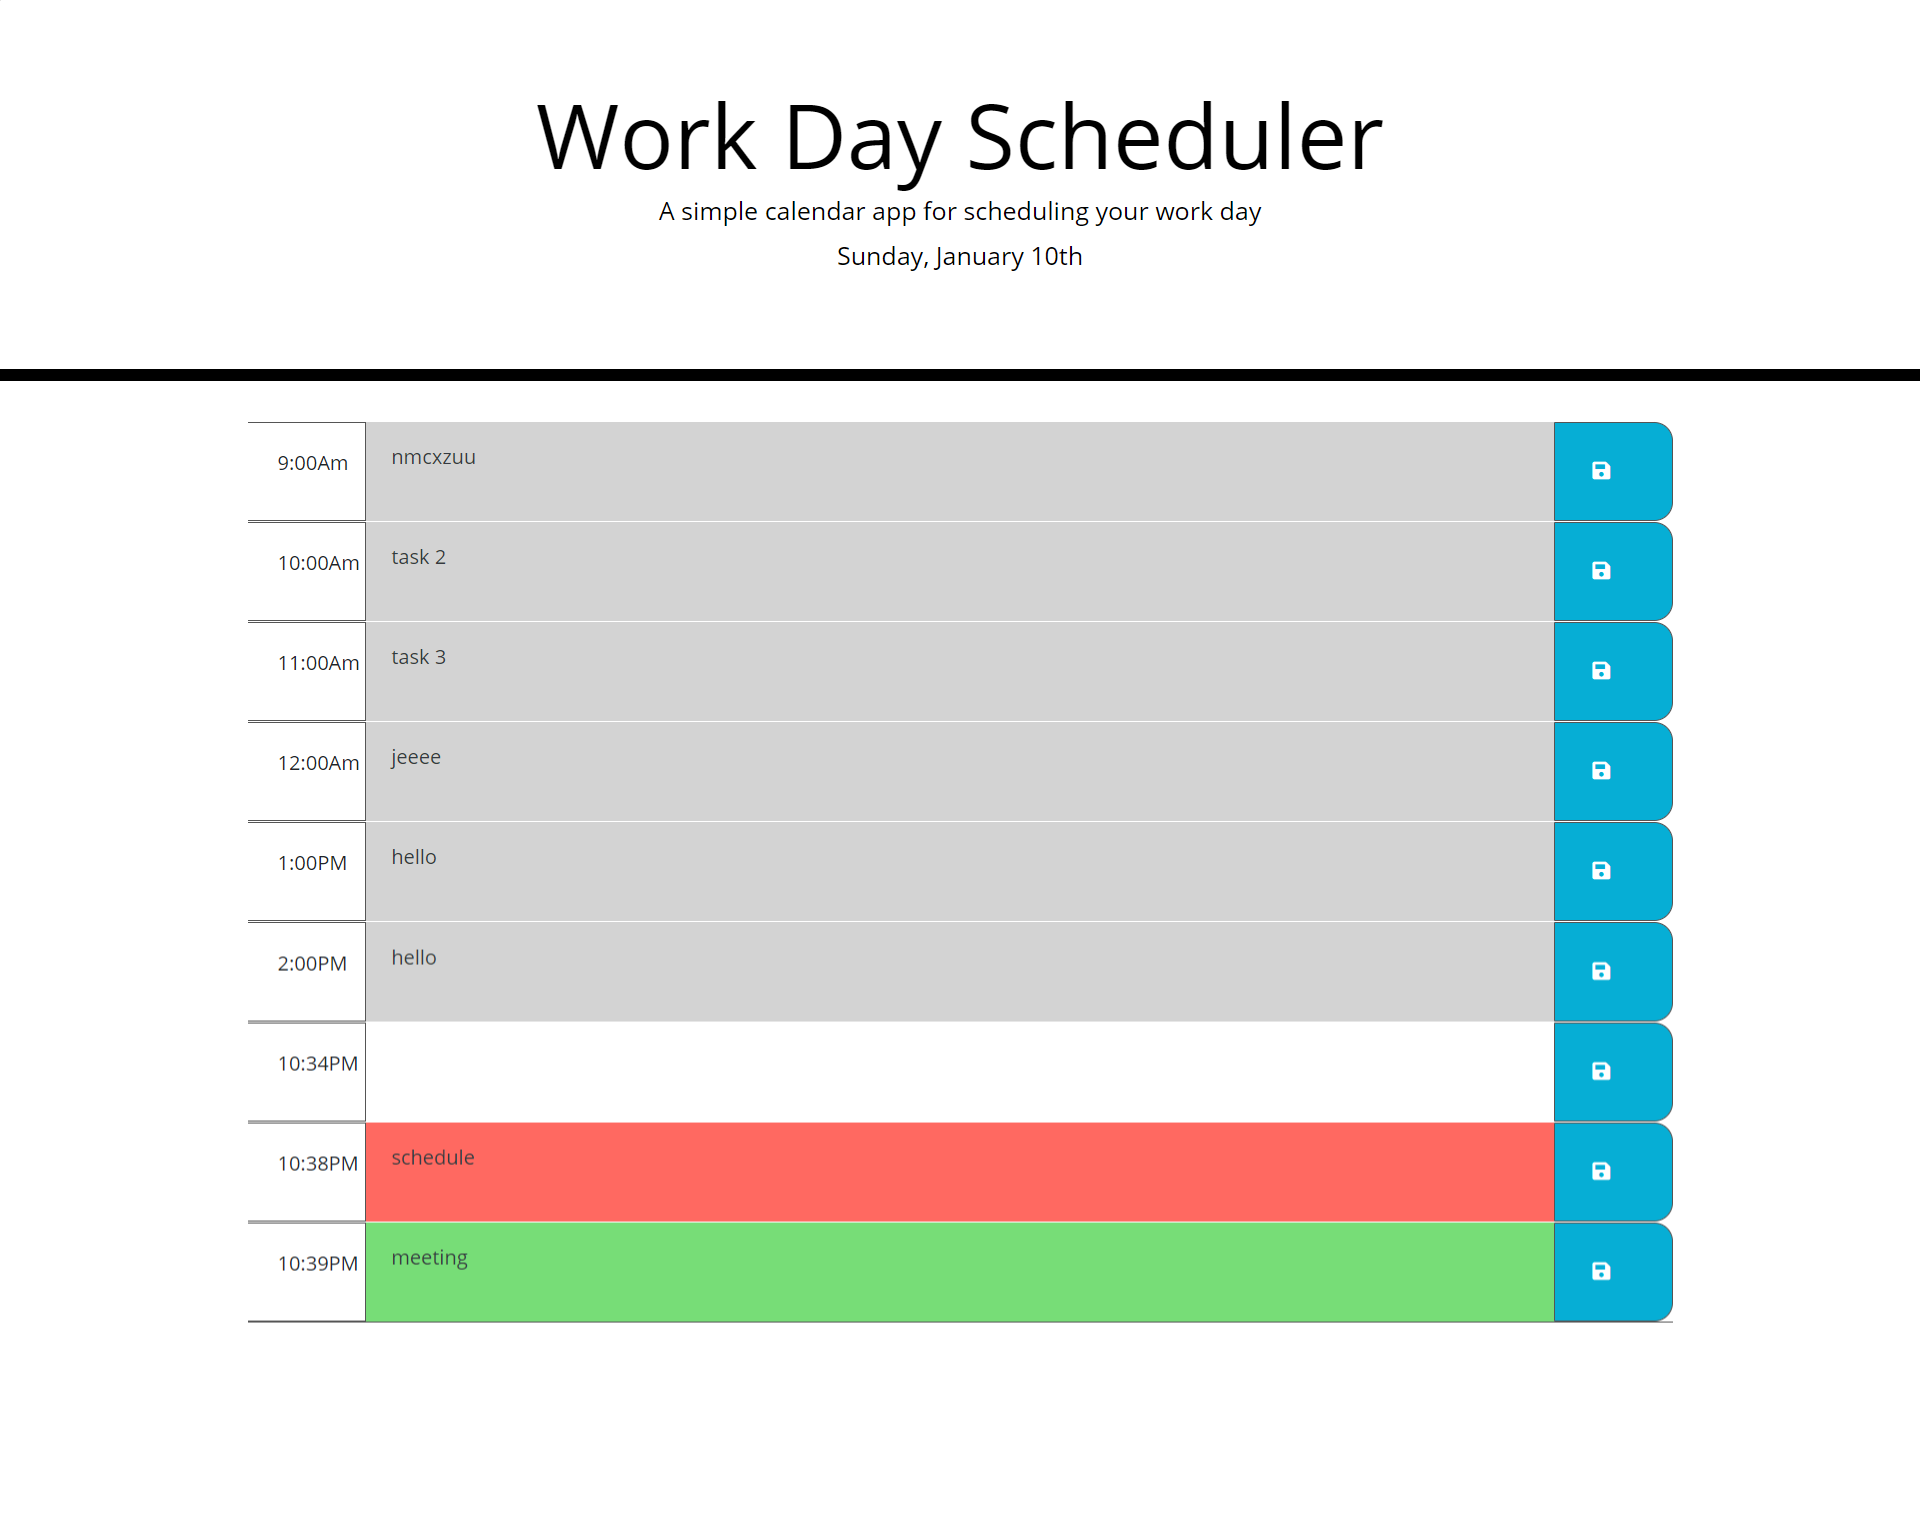
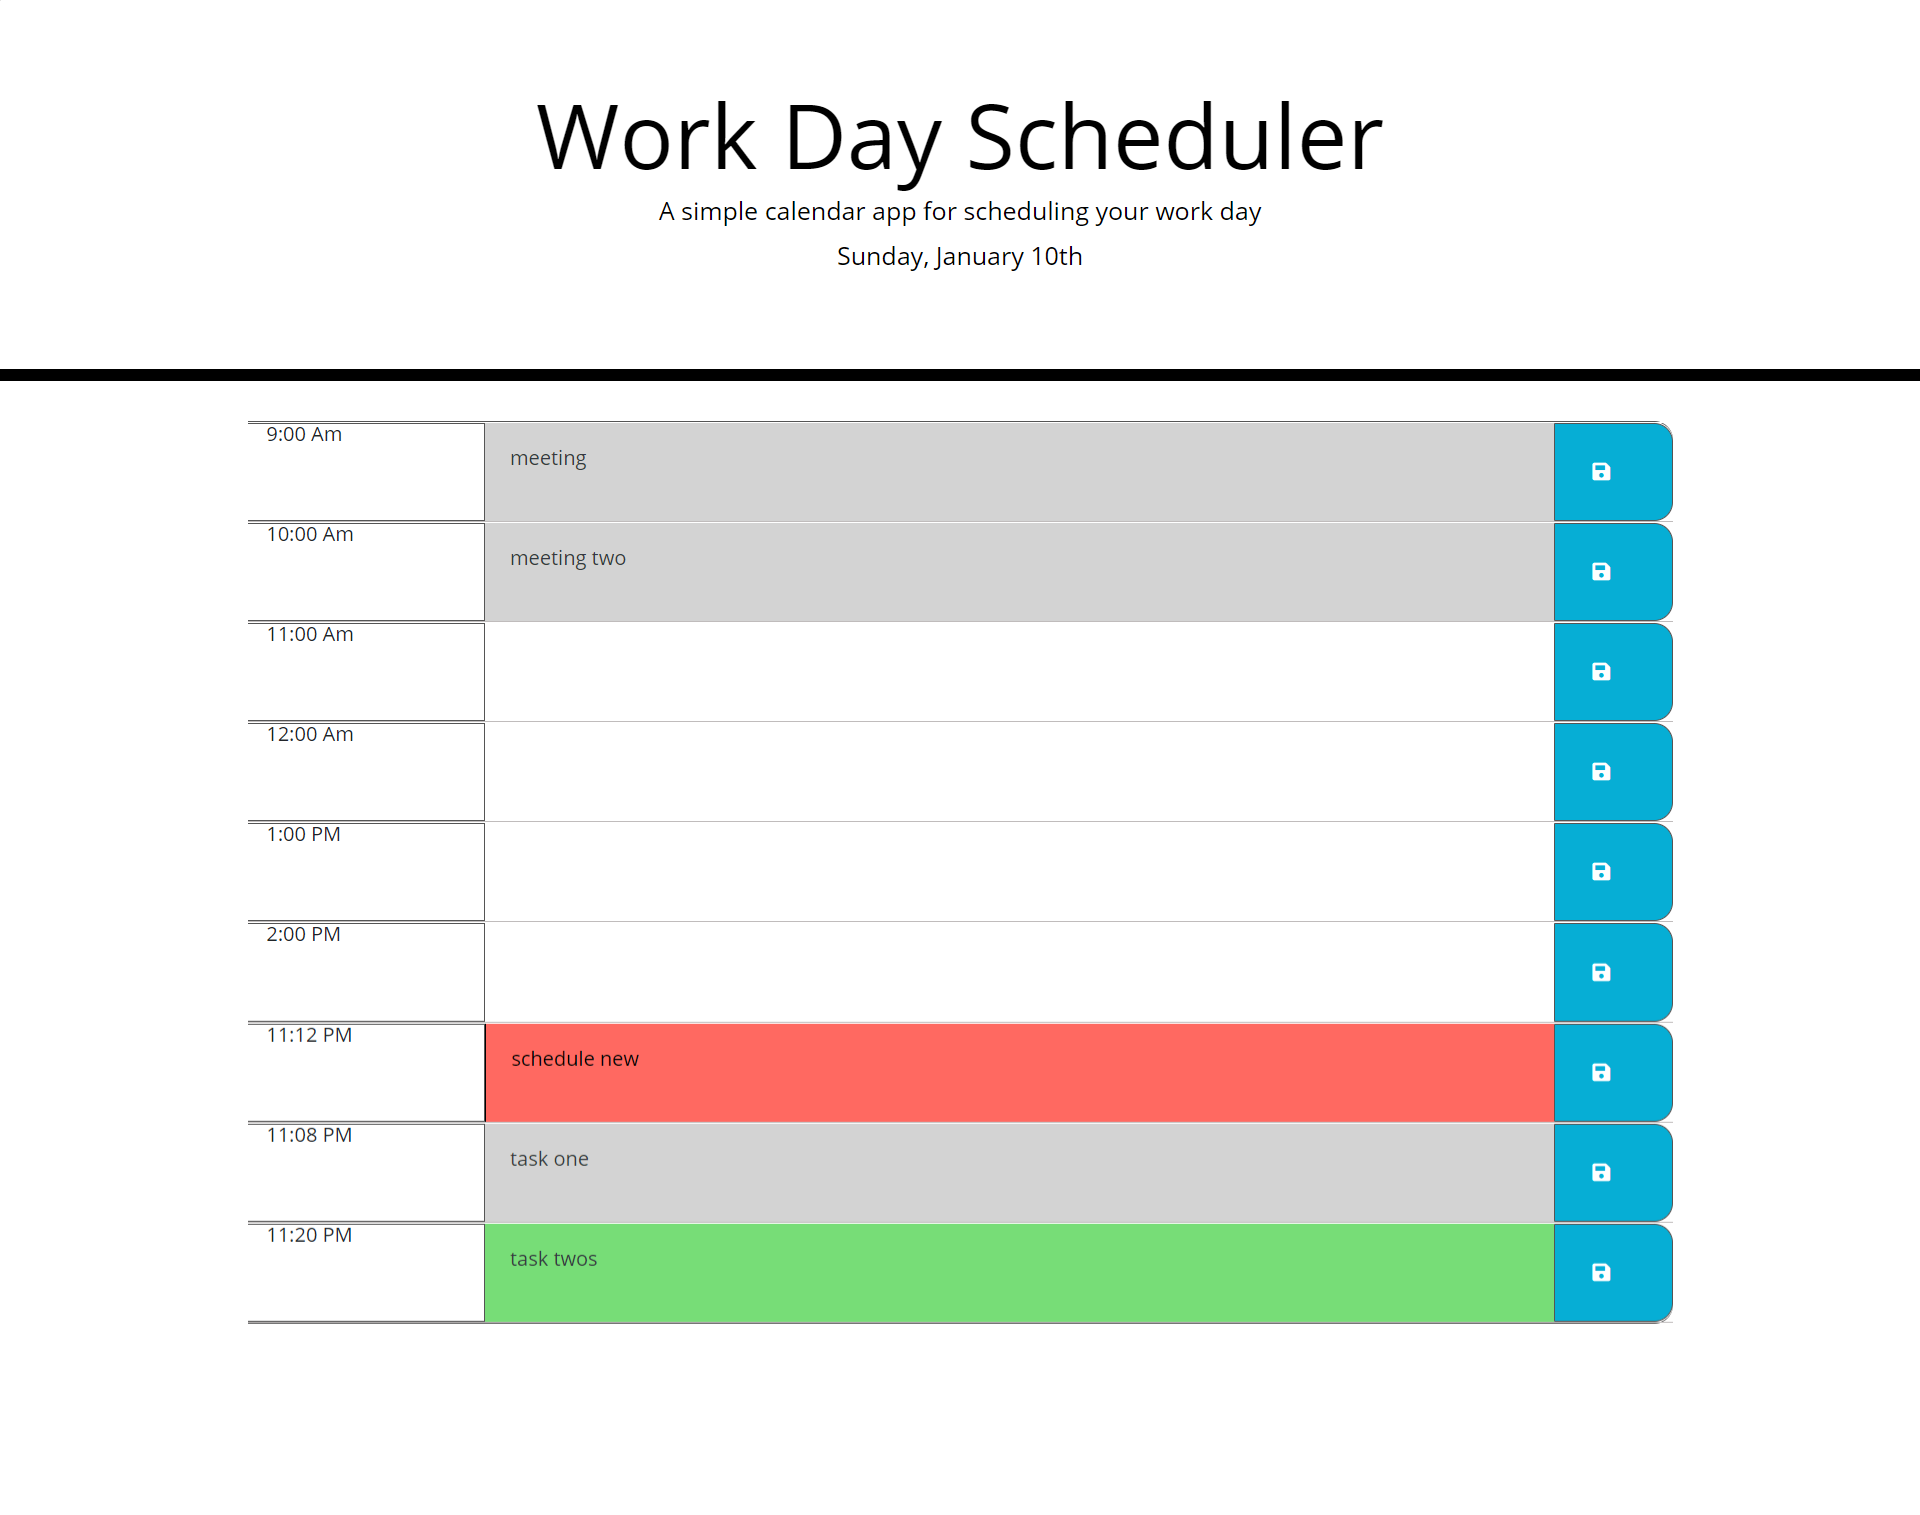
check whether the schedule is empty or not

Changed region(s): [[0.125, 0.2794, 0.875, 0.9003], [0.8125, 0.3415, 0.8438, 0.3725]]

diff --git a/assets/js/script.js b/assets/js/script.js
@@ -1,14 +1,14 @@
 workSchedule = [];
 workTime = [
-  "9:00Am",
-  "10:00Am",
-  "11:00Am",
-  "12:00Am",
-  "1:00PM",
-  "2:00PM",
-  "10:34PM",
-  "10:38PM",
-  "10:39PM",
+  "9:00 Am",
+  "10:00 Am",
+  "11:00 Am",
+  "12:00 Am",
+  "1:00 PM",
+  "2:00 PM",
+  "3:00 PM",
+  "4:00 PM",
+  "5:00 PM",
 ];
 //append current time to the paragraph
 currentDate = moment().format("dddd, MMMM Do");
@@ -23,10 +23,10 @@ function displaySchedule() {
     var timePlanDiv = $("<div>").addClass("row");
     var container = $(".container");
     var timeScheduleDiv = $("<div>").addClass(
-      "col-4 col-sm-3 col-md-2 col-lg-1 border-left-0 p-4"
+      "col-4 col-sm-3 col-md-2 col-lg-2 border-left-0"
     );
     var planDiv = $("<div>").addClass(
-      "col-4 col-sm-6 col-md-8 col-lg-10 border-0 text-dark pl-0"
+      "col-4 col-sm-6 col-md-8 col-lg-9 border-0 text-dark pl-0"
     );
     var savePlan = $("<div>").addClass(
       "col-4 col-sm-3 col-md-2 col-lg-1 saveBtn"
@@ -50,16 +50,22 @@ function displaySchedule() {
     timePlanDiv.append(timeScheduleDiv, planDiv, savePlan);
     container.append(timePlanDiv);
     //save the current time in hour and second format and compare with the schedule time
-    var currentTime = moment().format("LT");
-    var beginningTime = moment(currentTime, "h:mma");
-    planTime = planTime.text().trim();
-
-    var endTime = moment(planTime, "h:mma");
-    if (beginningTime.isBefore(endTime) && planTextP.text() !== " ") {
+    var currentTime = moment().format("hh:mmA");
+    var currentTimeFormat = moment(currentTime, "h:mma");
+    planTime = planTime.text();
+    var scheduleTime = moment(planTime, "h:mma");
+    //compare current time and schedule time to change the background color
+    if (currentTimeFormat.isBefore(scheduleTime) && planTextP.text() !== " ") {
       planDiv.addClass("future");
-    } else if (beginningTime.isAfter(endTime) && planTextP.text() !== " ") {
+    } else if (
+      currentTimeFormat.isAfter(scheduleTime) &&
+      planTextP.text() !== " "
+    ) {
       planDiv.addClass("past");
-    } else if (beginningTime.isSame(endTime) && planTextP.text() !== " ") {
+    } else if (
+      currentTimeFormat.isSame(scheduleTime) &&
+      planTextP.text() !== " "
+    ) {
       planDiv.addClass("present");
     }
     console.log();

diff --git a/assets/css/style.css b/assets/css/style.css
@@ -6,6 +6,9 @@ body {
 .container {
   margin-bottom: 10%;
   border-bottom: 1px solid #555;
+  border-bottom-right-radius: 15px;
+  border-top: 1px solid #555;
+  border-top-right-radius: 15px;
 }
 textarea {
   background: transparent;
@@ -41,6 +44,7 @@ textarea {
   white-space: pre-wrap;
   height: 80px;
   border-top: 1px solid white;
+  border-bottom: 1px solid #c0bcbc;
 }
 
 .row div .hour {
